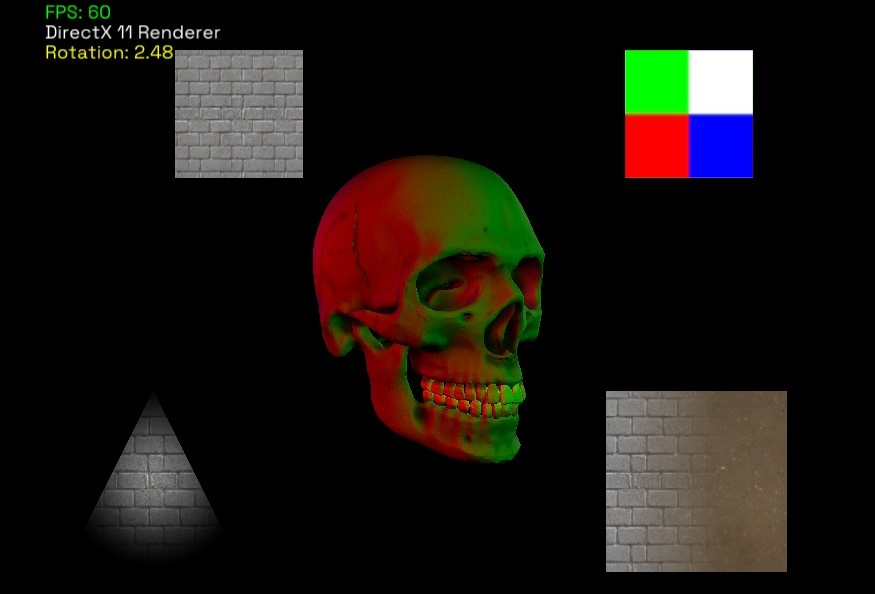
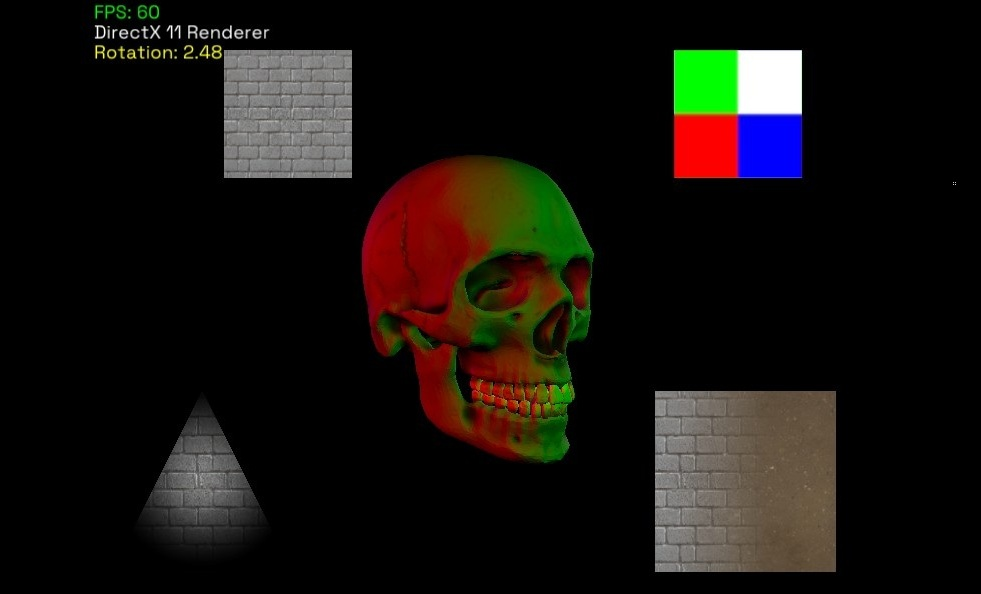
docs: change font

diff --git a/unreal.html b/unreal.html
@@ -24,7 +24,7 @@
                 <div class="highlight-card">
                     <div class="header">
                         <h3>OceanX Simulator</h3>
-                        <p>Immersive projection domes and extended reality.</p>
+                        <p>Immersive Projection Domes.</p>
                     </div>
                     <div class="image-container">
                         <img src="images/OceanXSimulator.jpg" alt="OceanX Simulator">
@@ -39,7 +39,7 @@
                 <div class="highlight-card">
                     <div class="header">
                         <h3>Eximius</h3>
-                        <p>FPS/RTS hybrid that focuses on squad-based combat.</p>
+                        <p>Squad-based FPS/RTS hybrid.</p>
                     </div>
                     <div class="image-container">
                         <img src="images/RTSEximius.jpg" alt="Eximius">
@@ -71,7 +71,7 @@
                 <div class="highlight-card">
                     <div class="header">
                         <h3>IP360 Metaverse</h3>
-                        <p>Metaverse hub powered by digital content technology.</p>
+                        <p>Metaverse Hub.</p>
                     </div>
                     <div class="image-container">
                         <img src="images/Metaverse.jpg" alt="IP360 Metaverse">
@@ -88,7 +88,7 @@
                 <div class="highlight-card">
                     <div class="header">
                         <h3>Spline Forest Plugin</h3>
-                        <p>Procedural forest generation plugin for Unreal Engine.</p>
+                        <p>Procedural forest generation plugin.</p>
                     </div>
                     <div class="image-container">
                         <img src="images/ProceduralForest.jpg" alt="Spline Forest Plugin">
@@ -104,7 +104,7 @@
                 <div class="highlight-card">
                     <div class="header">
                         <h3>Custom Lens Flare Render Pass</h3>
-                        <p>Scene view extension based solution for lens flares.</p>
+                        <p>Scene view extension.</p>
                     </div>
                     <div class="image-container">
                         <img src="images/Flare.jpg" alt="Lens">

diff --git a/qt.html b/qt.html
@@ -25,7 +25,7 @@
                 <div class="highlight-card">
                     <div class="header">
                         <h3>Markdown Viewer</h3>
-                        <p>Made using Qt framework and C++ along with CMARK.</p>
+                        <p>CMARK based MD viewer.</p>
                     </div>
                     <div class="image-container">
                         <img src="images/MarkdownViewer.jpg" alt="Markdown Viewer"
@@ -57,7 +57,7 @@
                 <div class="highlight-card">
                     <div class="header">
                         <h3>Open Weather</h3>
-                        <p>Connects with Open-Weather API to get realtime data.</p>
+                        <p>Open-Weather API connected application.</p>
                     </div>
                     <div class="image-container">
                         <img src="images/OpenWeather.jpg" alt="Open Weather"
@@ -109,7 +109,7 @@
                 <div class="highlight-card">
                     <div class="header">
                         <h3>Podcast Registration</h3>
-                        <p>You can find the original design on Behance.</p>
+                        <p>Based on design from Behance.</p>
                     </div>
                     <div class="image-container">
                         <img src="images/Podcast.jpg" alt="Podcast Registration">
@@ -126,7 +126,7 @@
                 <div class="highlight-card">
                     <div class="header">
                         <h3>System Monitor</h3>
-                        <p>QML and HWINFO based System Information Monitor.</p>
+                        <p>QML and HW-INFO.</p>
                     </div>
                     <div class="image-container">
                         <img src="images/SystemMonitor.jpg" alt="System Monitor"
@@ -162,7 +162,7 @@
                 <div class="highlight-card">
                     <div class="header">
                         <h3>Video Editor</h3>
-                        <p>Lightweight video editor made in Qt Framework.</p>
+                        <p>Lightweight video editor made.</p>
                     </div>
                     <div class="image-container">
                         <img src="images/GifConverter.jpg" alt="Gif Converter"

diff --git a/index.html b/index.html
@@ -30,7 +30,7 @@
                 <div class="highlight-card">
                     <div class="header">
                         <h3>Tipu Framework</h3>
-                        <p>Lightweight rendering framework made for Vulkan.</p>
+                        <p>Lightweight Rendering Framework.</p>
                     </div>
                     <div class="image-container">
                         <img src="images/Blogs/Sponza.jpg" alt="Tipu Framework">
@@ -45,7 +45,7 @@
                 <div class="highlight-card">
                     <div class="header">
                         <h3>OceanX Simulator</h3>
-                        <p>Immersive projection domes and extended reality.</p>
+                        <p>Immersive Projection Domes.</p>
                     </div>
                     <div class="image-container">
                         <img src="images/OceanXSimulator.jpg" alt="OceanX Simulator">

diff --git a/others.html b/others.html
@@ -43,7 +43,7 @@
                 <div class="highlight-card">
                     <div class="header">
                         <h3>Game of Life</h3>
-                        <p>John Conway's game of life implementation.</p>
+                        <p>John Conway's game of life.</p>
                     </div>
                     <div class="image-container">
                         <img src="images/GameOfLife.jpg" alt="Game of life"
@@ -108,7 +108,7 @@
                 <div class="highlight-card">
                     <div class="header">
                         <h3>Event System</h3>
-                        <p>Two different event system implementations.</p>
+                        <p>Two different event systems.</p>
                     </div>
                     <div class="image-container">
                         <img src="images/Event.jpg" alt="Event">

diff --git a/graphics.html b/graphics.html
@@ -25,7 +25,7 @@
                 <div class="highlight-card">
                     <div class="header">
                         <h3>Tipu Framework</h3>
-                        <p>Lightweight rendering framework made for Vulkan.</p>
+                        <p>Lightweight Rendering Framework.</p>
                     </div>
                     <div class="image-container">
                         <img src="images/Tipu.jpg" alt="Tipu Framework">
@@ -71,7 +71,7 @@
                 <div class="highlight-card">
                     <div class="header">
                         <h3>Boids</h3>
-                        <p>Created using C++ with OpenGL, GLFW, ImGUI.</p>
+                        <p>Fish school simulation.</p>
                     </div>
                     <div class="image-container">
                         <img src="images/Flocking.jpg" alt="Boids">

diff --git a/style.css b/style.css
@@ -1,7 +1,7 @@
 /* Global */
 body {
     margin: 0;
-    font-family: "Space Grotesk", sans-serif;
+    font-family: "consolas", sans-serif;
     background-color: #121212;
     color: #f5f5f5;
     display: flex;
@@ -111,6 +111,7 @@ main section {
     margin: 5px 0 0;
     font-size: 0.9rem;
     color: #ccc;
+    text-wrap-mode: nowrap;
 }
 
 /* Image fills remaining space */
@@ -125,7 +126,8 @@ main section {
     display: flex;
     background: #e67e22;
     color: white;
-    /*font-weight: bold;*/
+    font-size: 0.9rem;
+    font-weight: bold;
 }
 
 .highlight-card .footer div {
